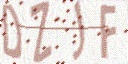
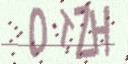
Fixed iFGSM

diff --git a/attack_model.py b/attack_model.py
@@ -3,16 +3,20 @@ from keras import losses
 import keras.backend as K
 import sys
 import tensorflow as tf
+import cv2
 
 
 class attack_Model():
-    def __init__(self, n_class, attack_method) -> None:
+    def __init__(self, n_class, attack_method=None) -> None:
         # constants: must update when more attack methods are added into this repo.
         self.IMPLEMENTED_ATTACKS = ('FGSM', 'iFGSM')
         # variables
         self.epsilon = 4.0 / 256
         self.n_class = n_class
         self._attack_method = {}
+        if(attack_method == None):
+            attack_method = self.IMPLEMENTED_ATTACKS
+
         for a in attack_method:
             if(str(a) not in self.IMPLEMENTED_ATTACKS):
                 raise NotImplementedError(f'{a} is not implemented. Available attack models: {self.IMPLEMENTED_ATTACKS}')
@@ -30,7 +34,7 @@ class attack_Model():
 
     # Iteratively attack model
     # DO NOT CALL THIS FUNCTION AT SUBCLASS!!!
-    def attack(self, model_name, images, labels, one_hot_labels, proxy_model, break_time=10):
+    def attack(self, model_name, images, labels, one_hot_labels, proxy_model, break_time=1):
         
         attacked_imgs = None
         # print(images.shape)
@@ -59,7 +63,7 @@ class attack_Model():
             else:
                 attacked_imgs = np.vstack((attacked_imgs, attacked_img))
 
-        print(attacked_imgs.shape)
+        # print(attacked_imgs.shape)
         return attacked_imgs
         
         
@@ -123,8 +127,8 @@ class iFGSM():
         attacked_images_set = np.array([])
         attacked_images = images
         iter_time = min(self.epsilon * 256 + 4, 1.25*(self.epsilon * 256))
-        alpha = (self.epsilon * 256) / iter_time
-        for i in range(0, int(iter_time)):
+        alpha = self.epsilon / iter_time
+        for _ in range(0, int(iter_time)):
             with tf.GradientTape() as gtape:
                 attacked_images = tf.convert_to_tensor(attacked_images)
                 gtape.watch(attacked_images)
@@ -141,9 +145,6 @@ class iFGSM():
             adversarial_np = adversarial.numpy()
             adversarial_np = np.clip(adversarial_np, 0, 1)
             attacked_images = adversarial_np
-            # print("adversarial_np")
-            # print(adversarial_np.shape)
-
         
         attacked_images_set = np.append(attacked_images_set, adversarial_np)
 

diff --git a/unlearnable_captcha.py b/unlearnable_captcha.py
@@ -46,12 +46,12 @@ class unlearnable_captcha():
         return self.proxy_model.decode(y)
 
     def attack(self):
-        attack_model = attack_Model(self.n_class, ['FGSM'])
+        attack_model = attack_Model(self.n_class)
 
         s, f = 0, 0
-        for _ in tqdm(range(1)):
+        for _ in tqdm(range(100)):
 
-            Gen = CaptchaSequence(batch_size=2, steps=1, dataset=self.dataset)
+            Gen = CaptchaSequence(batch_size=1, steps=1, dataset=self.dataset)
             test_img, one_hot_y = Gen[0]
             # test if model is 
             test_pred = self._proxy_model_predict(test_img)
@@ -59,18 +59,18 @@ class unlearnable_captcha():
             test_y = self._decode(one_hot_y)
             print(test_y)
             print(test_pred)
-            cv2.imwrite('ori.jpg', np.array(test_img[0]*255).astype(np.uint8))
-            cv2.imwrite('ori2.jpg', np.array(test_img[1]*255).astype(np.uint8))
-            a_img = attack_model.attack('FGSM', test_img, test_y, one_hot_y, self.proxy_model)
+            # cv2.imwrite('ori.jpg', np.array(test_img[0]*255).astype(np.uint8))
+            # cv2.imwrite('ori2.jpg', np.array(test_img[1]*255).astype(np.uint8))
+            a_img = attack_model.attack('iFGSM', test_img, test_y, one_hot_y, self.proxy_model)
             a_pred = self._proxy_model_predict(a_img)
             print(f'final: {a_pred}')
 
             if((test_pred[0]==test_y[0]) and (test_pred[0]!=a_pred[0])): s += 1
             elif((test_pred[0]==test_y[0]) and (test_pred[0]==a_pred[0])): f += 1
             
-            print(test_img.shape)
-            cv2.imwrite('attacked.jpg', np.array(a_img[0]*255).astype(np.uint8))
-            cv2.imwrite('attacked2.jpg', np.array(a_img[1]*255).astype(np.uint8))
+            # print(test_img.shape)
+            # cv2.imwrite('attacked.jpg', np.array(a_img[0]*255).astype(np.uint8))
+            # cv2.imwrite('attacked2.jpg', np.array(a_img[1]*255).astype(np.uint8))
         
         print(f'proxy model accuracy: {s+f}%')
         print(f'attack success: {s}/{s+f}, {100*s/(s+f):.2f}%')

diff --git a/README.md b/README.md
@@ -7,7 +7,16 @@ NTHUCS Machine Learning Final Project
 Run `python main.py -t` to train model.
 
 ### Attack
-Run `python main.py -a` to attack images
+Run `python main.py -a` to attack images.
+
+Implemented attack model:
+
+* FGSM
+
+* IFGSM
+
+Adjust model name in `attack_model.attack()` in `unlearnable_captcha.attack()`, number of generate images in `tqdm` for-loop also in `unlearnable_captcha.attack()`.
+
 
 ### Arguments
 
